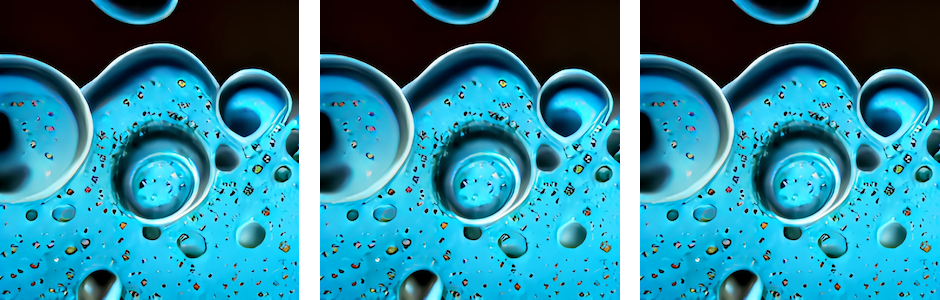
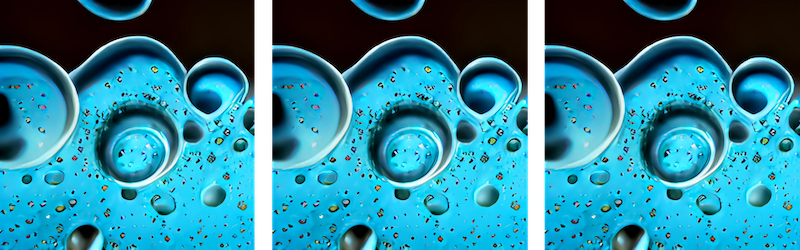
changed feature image size

diff --git a/_sass/_layout.scss b/_sass/_layout.scss
@@ -35,7 +35,7 @@ body.sticky-bottom-footer {
 
 .featured-image-post {
   width: 100%;
-  height: 150px;
+  height: 250px;
   object-fit: cover;
 }
 
